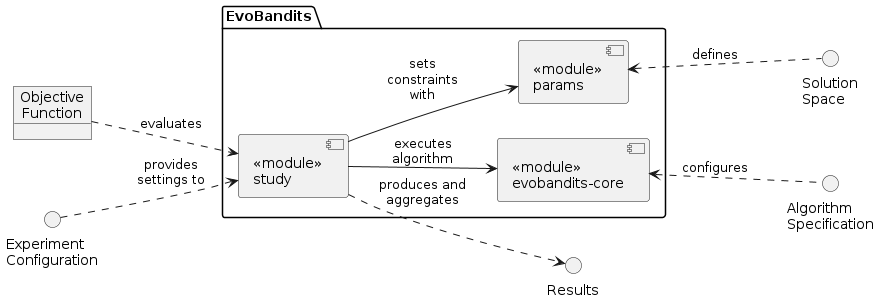
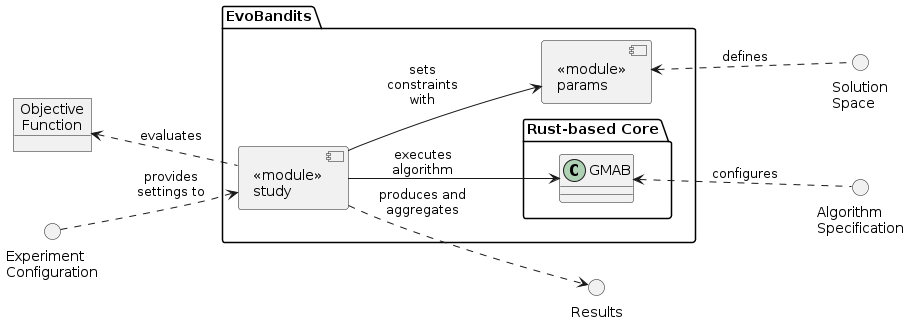
fixes a typo in uml diagram

diff --git a/canyon_checker.py b/canyon_checker.py
@@ -1,0 +1,76 @@
+import requests
+from bs4 import BeautifulSoup
+import time
+import datetime
+import random
+from win10toast import ToastNotifier
+import winsound
+
+# List of product URLs to check
+URLS = {
+    "Silber Canyon": "https://www.canyon.com/de-de/rennrad/endurance-rennrad/endurace/allroad/endurace-allroad/4164.html?dwvar_4164_pv_rahmenfarbe=R138_P01&dwvar_4164_pv_rahmengroesse=XS",
+    "Lila Canyon": "https://www.canyon.com/de-de/rennrad/endurance-rennrad/endurace/allroad/endurace-allroad/4164.html?dwvar_4164_pv_rahmenfarbe=R138_P02&dwvar_4164_pv_rahmengroesse=XS",
+}
+
+HEADERS = {
+    "User-Agent": "Mozilla/5.0 (Windows NT 10.0; Win64; x64) AppleWebKit/537.36 "
+                  "(KHTML, like Gecko) Chrome/120.0.0.0 Safari/537.36"
+}
+
+USER_AGENTS = [
+    "Mozilla/5.0 (Windows NT 10.0; Win64; x64) AppleWebKit/537.36 (KHTML, like Gecko) Chrome/120.0.0.0 Safari/537.36",
+    "Mozilla/5.0 (Macintosh; Intel Mac OS X 10_15_7) AppleWebKit/605.1.15 (KHTML, like Gecko) Version/15.1 Safari/605.1.15",
+    "Mozilla/5.0 (X11; Linux x86_64) AppleWebKit/537.36 (KHTML, like Gecko) Chrome/109.0.0.0 Safari/537.36",
+    "Mozilla/5.0 (iPhone; CPU iPhone OS 15_0 like Mac OS X) AppleWebKit/605.1.15 (KHTML, like Gecko) Version/15.0 Mobile/15E148 Safari/604.1",
+]
+
+toaster = ToastNotifier()
+BELL_SOUND_PATH = "loud_bell.wav"
+
+def play_bell_sound():
+    for _ in range(5):  # repeat 5 times
+        winsound.PlaySound(BELL_SOUND_PATH, winsound.SND_FILENAME | winsound.SND_ASYNC)
+        time.sleep(1)  # short pause between repetitions
+
+def get_random_headers():
+    return {
+        "User-Agent": random.choice(USER_AGENTS),
+        "Accept-Language": random.choice(["en-US,en;q=0.9", "de-DE,de;q=0.9", "fr-FR,fr;q=0.9"]),
+        # Optionally add Referer or other headers here
+    }
+
+def check_availability():
+    for variant_name, url in URLS.items():
+        headers = get_random_headers()
+        try:
+            response = requests.get(url, headers=headers, timeout=10)
+            response.raise_for_status()
+
+            soup = BeautifulSoup(response.text, 'html.parser')
+
+            # Look for the "Add to cart" button
+            add_to_cart_button = soup.find("button", class_="js-addToCart-button")
+
+            if add_to_cart_button and "In den Warenkorb" in add_to_cart_button.get_text():
+                print(f"\n[{datetime.datetime.now()}] ✅ {variant_name} AVAILABLE!\n🔗 {url}\n")
+                toaster.show_toast(
+                    f"{variant_name} Available!",
+                    f"The product variant '{variant_name}' is available on the page!",
+                    duration=10, threaded=True
+                )
+                play_bell_sound()
+            else:
+                print(f"[{datetime.datetime.now()}] ❌ {variant_name} NOT available.")
+        except Exception as e:
+            print(f"[{datetime.datetime.now()}] ⚠ Error checking {variant_name}: {e}")
+
+
+def main():
+    while True:
+        check_availability()
+        sleep_time = random.randint(30, 90)  # Random delay between 4.5 and 5.5 minutes
+        print(f"Sleeping for {sleep_time} seconds...")
+        time.sleep(sleep_time)
+
+if __name__ == "__main__":
+    main()

diff --git a/UML_diagrams.md b/UML_diagrams.md
@@ -20,16 +20,19 @@ object "Objective\nFunction" as objective
 package EvoBandits {
   component "<<module>>\nstudy" as study
   component "<<module>>\nparams" as params
-  component "<<module>>\nevobandits-core" as core
+  
+  package "Rust-based Core" as core {
+    class "GMAB" as gmab
+  }
 }
 
 config ..> study: "provides\nsettings to"
-objective ..> study: "evaluates"
+objective <.. study: "evaluates"
 params <.. solutionspace: defines
 study ..> results: "produces and\naggregates"
-core <.. algorithm: configures
+gmab <.. algorithm: configures
 study --> params: "sets\nconstraints\nwith"
-study --> core: "executes\nalgorithm"
+study --> gmab: "executes\nalgorithm"
 @enduml
 ```
 
